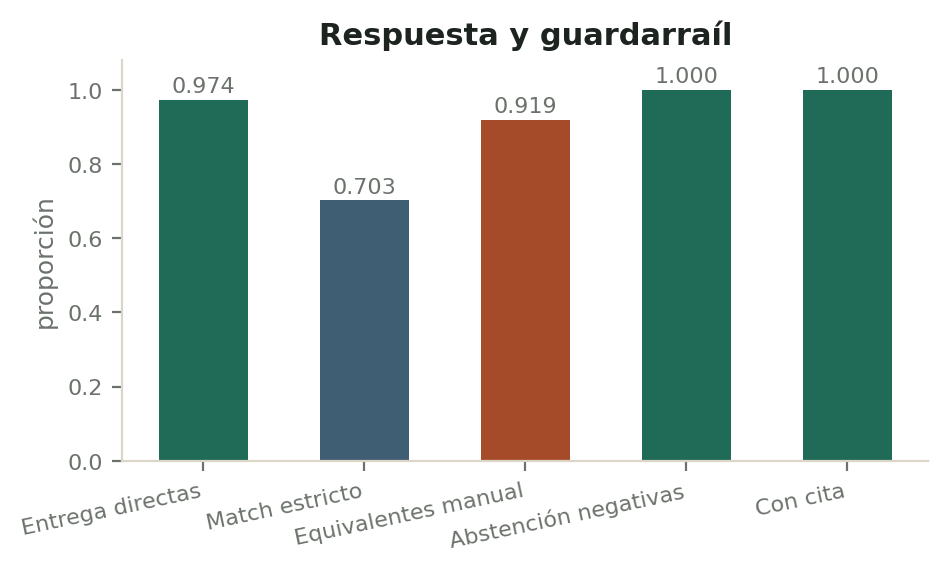
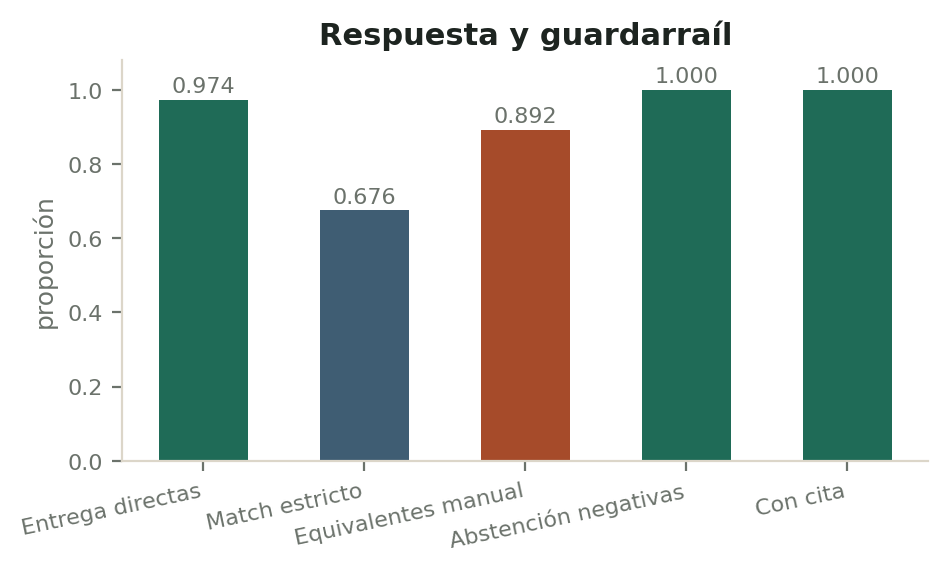
Evaluacion de desempeno en el worker GPU
- run_evaluation usa ingest-rocm en vez de la API para la fase de desempeno
- el worker fija EMBEDDINGS_MODEL y MILVUS_COLLECTION, que el .env tenia viejos
- cifras actualizadas con la corrida del 2026-11-02 y nota de medicion

Changed region(s): [[0.3365, 0.2977, 0.4283, 0.387], [0.4895, 0.1489, 0.6118, 0.2382]]

diff --git a/TALLER RAG/src/scripts/run_evaluation.py b/TALLER RAG/src/scripts/run_evaluation.py
@@ -26,8 +26,8 @@ def run(command: list[str], env: dict | None = None, check: bool = True) -> None
 
 def performance() -> None:
     base = [
-        "docker", "compose", "exec", "-T", "api", "python", "-m",
-        "src.scripts.eval_configuracion_final", "--model", "gemma4:e4b", "--k-answer", "5",
+        "docker", "compose", "--profile", "rocm", "run", "--rm", "-T", "ingest-rocm",
+        "python", "-m", "src.scripts.eval_configuracion_final", "--model", "gemma4:e4b", "--k-answer", "5",
     ]
     run(base + [
         "--raw", "reports/corridas/metricas_final_sin.jsonl",
@@ -40,7 +40,7 @@ def performance() -> None:
         "--raw", "reports/corridas/metricas_final_con.jsonl",
         "--summary", "reports/tablas/metricas_final_con.csv",
         "--by-lang", "reports/tablas/metricas_final_con_por_idioma.csv",
-        "--figures-dir", "/tmp/opencode/fig_eval_con",
+        "--figures-dir", "/tmp/fig_eval_con",
     ])
 
 

diff --git a/TALLER RAG/docs/ARQUITECTURA.md b/TALLER RAG/docs/ARQUITECTURA.md
@@ -124,7 +124,7 @@ El tema sigue Material 3. Los tokens de color, forma, tipografía, elevación y 
 | `eval_ragas.py` | RAGAS con juez y embedding configurables |
 | `run_evaluation.py` | pipeline completo y comparación contra la arquitectura anterior |
 
-El pipeline corre en el contenedor `eval` con Python 3.12, RAGAS 0.4.3, LangChain 0.3 y `BAAI/bge-m3` en CPU. La comparación se guarda en `reports/tablas/evaluacion_comparativa.md`.
+La fase de desempeño corre en el worker GPU (`ingest-rocm`, perfil `rocm`), que tiene ROCm y sus propios límites de memoria; así la API no carga una segunda copia de `bge-m3` ni del reranker. RAGAS corre en el contenedor `eval` con Python 3.12, RAGAS 0.4.3, LangChain 0.3 y `BAAI/bge-m3` en CPU. La comparación se guarda en `reports/tablas/evaluacion_comparativa.md`.
 
 ### 2.9 Despliegue
 
@@ -187,12 +187,12 @@ La corrección de spans de la revisión de Óscar se volvió a medir y `span_hit
 | Directas entregadas | 37 de 38 | 37 de 38 |
 | Abstenciones directas | 1 | 1 |
 | Abstenciones en sin respuesta | 5 de 5 | 5 de 5 |
-| Match estricto | 26 de 37 (70,3%) | 25 de 37 (67,6%) |
+| Match estricto | 25 de 37 (67,6%) | 25 de 37 (67,6%) |
 | F1 por tokens | 0,273 | 0,272 |
 | Respuestas con cita | 100% | 100% |
 | Contexto medio | 1.361 tokens | 1.361 tokens |
-| Latencia media | 6.788 ms | 6.482 ms |
-| Latencia mediana | 6.790 ms | 6.435 ms |
+| Latencia media | 7.938 ms | 6.834 ms |
+| Latencia mediana | 7.086 ms | 6.729 ms |
 
 La revisión manual de las 12 respuestas no estrictas da 8 correctas, 3 parciales y 1 incorrecta: 33 de 37 equivalentes (89,2%) o 36 de 37 con parciales (97,3%). La incorrecta es g-046, donde el retrieval no trae Newcastle.
 
@@ -239,10 +239,10 @@ El juez y el embedding cambiaron, así que la comparación no es completamente e
 | Recuperación | k=5, reranker top-5 | k=15, sin reranker |
 | Entregadas | 37 de 38 | 33 de 38 |
 | Abstenciones directas | 1 | 5 |
-| Match estricto | 26 de 37 (70,3%) | 24 de 33 (72,7%) |
+| Match estricto | 25 de 37 (67,6%) | 24 de 33 (72,7%) |
 | Revisión manual | 33 de 37 (89,2%) | 32 de 37 (86,5%) |
 | Chat con Modo estricto | 14 de 14 | 9 de 12 |
-| Latencia media | 6.788 ms | 17.657 ms |
+| Latencia media | 7.938 ms | 17.657 ms |
 | Contexto medio | 1.361 | 3.975 |
 
 La arquitectura actual entrega más respuestas, acierta más en la revisión manual y es 2,6 veces más rápida. El coste es un contexto más corto y una corrección de respuesta algo menor.

diff --git a/TALLER RAG/README.md b/TALLER RAG/README.md
@@ -206,7 +206,7 @@ docker compose exec api python -m src.scripts.metrics --results reports/corridas
 ```
 
 4. Comparación de limpieza, chunking y codificadores: `docs/EXPERIMENTOS.md`.
-5. Pipeline unificado: `python src/scripts/run_evaluation.py`. Corre desempeño, chat y RAGAS; escribe `reports/tablas/evaluacion_comparativa.md`. El contenedor `eval` tiene RAGAS 0.4.3, LangChain 0.3 y `BAAI/bge-m3` en CPU; se levanta con el perfil `eval`.
+5. Pipeline unificado: `python src/scripts/run_evaluation.py`. Corre desempeño, chat y RAGAS; escribe `reports/tablas/evaluacion_comparativa.md`. La fase de desempeño corre en el worker GPU (`ingest-rocm`, perfil `rocm`) para no cargar una segunda copia de los modelos dentro de la API. El contenedor `eval` tiene RAGAS 0.4.3, LangChain 0.3 y `BAAI/bge-m3` en CPU; se levanta con el perfil `eval`.
 
 Salidas: `reports/tablas/metricas.csv`, `metricas.md` y `resultados_detalle.csv`, con Recall@k, P@1, P@5, Hit@k, MRR, MAP, nDCG, cobertura de span, context precision y recall, duplicados, latencias e intervalos por bootstrap.
 
@@ -220,7 +220,7 @@ Salidas: `reports/tablas/metricas.csv`, `metricas.md` y `resultados_detalle.csv`
 | Chat | 11 de 14 sin Modo estricto; 14 de 14 con Modo estricto |
 | RAGAS actual (`gemma4` + `bge-m3`) | 0,952 / 0,840 / 0,881 / 0,921 / 0,657 |
 | RAGAS anterior (`gemma2` + `qwen3`) | 0,925 / 0,798 / 0,760 / 0,842 / 0,705 |
-| Latencia media | 6.788 ms sin razonamiento; 6.482 ms con razonamiento |
+| Latencia media | 7.938 ms sin razonamiento; 6.834 ms con razonamiento |
 
 La arquitectura completa, las capas y la comparación contra la versión anterior están en [docs/ARQUITECTURA.md](docs/ARQUITECTURA.md). El informe de métricas está en [reports/informe/metricas_nueva_configuracion.md](reports/informe/metricas_nueva_configuracion.md).
 
@@ -239,10 +239,13 @@ Son 84 pruebas: pipeline, API, chat, guardarraíles, preferencias y una prueba d
 |---|---|---|
 | Milvus | 8 | 10 GB |
 | Ollama local | 8 | 12 GB |
-| API | 24 | 12 GB |
+| API | 24 | 16 GB |
 | Frontend | 2 | 1,5 GB |
+| Worker GPU (ingesta y evaluación) | 8 | 16 GB |
 
 No ejecutes ingesta y generación al mismo tiempo. La GPU se comparte entre bge-m3 y Ollama; el cuello real es la VRAM y la CPU.
+
+La evaluación de desempeño corre en el worker GPU y no dentro de la API: así no conviven dos copias de `bge-m3` y del reranker en el mismo contenedor, que era lo que agotaba la memoria del host.
 
 ## 14. Solución de problemas
 

diff --git a/TALLER RAG/reports/informe/metricas_nueva_configuracion.md b/TALLER RAG/reports/informe/metricas_nueva_configuracion.md
@@ -50,13 +50,13 @@ La corrección de spans de Óscar se volvió a medir: `span_hit` se mantiene en 
 | Directas entregadas | 37 de 38 | 37 de 38 |
 | Abstenciones directas | 1 | 1 |
 | Abstenciones en sin respuesta | 5 de 5 | 5 de 5 |
-| Match estricto | 26 de 37 (70,3%) | 25 de 37 (67,6%) |
+| Match estricto | 25 de 37 (67,6%) | 25 de 37 (67,6%) |
 | F1 por tokens | 0,273 | 0,272 |
 | Respuestas con cita | 37 de 37 (100%) | 37 de 37 (100%) |
 | Contexto medio | 1.361 tokens | 1.361 tokens |
-| Latencia total, media | 6.788 ms | 6.482 ms |
-| Latencia total, mediana | 6.790 ms | 6.435 ms |
-| Latencia total, p95 | 9.404 ms | 8.765 ms |
+| Latencia total, media | 7.938 ms | 6.834 ms |
+| Latencia total, mediana | 7.086 ms | 6.729 ms |
+| Latencia total, p95 | 10.127 ms | 9.162 ms |
 
 El razonamiento no cambia los puntajes. Cambia qué pregunta directa se abstiene: sin razonamiento se abstiene g-031 por el generador; con razonamiento se abstiene g-017 por el juez. El conteo y el match estricto son iguales.
 
@@ -127,10 +127,14 @@ La arquitectura actual gana en faithfulness, answer relevancy, context precision
 |---|---|
 | k=15, sin razonamiento | 17.657 ms |
 | k=5, sin reranker | 14.951 ms |
-| k=5 + reranker, sin razonamiento | 6.788 ms |
-| k=5 + reranker, con razonamiento | 6.482 ms |
+| k=5 + reranker, sin razonamiento | 7.938 ms |
+| k=5 + reranker, con razonamiento | 6.834 ms |
 
 La mayor ganancia vino de alinear el contexto del router con el del generador. Antes el router usaba 8K y el generador 116K, y Ollama recargaba el modelo en cada consulta. El MTP aporta 217 tokens por segundo. El reranker en CPU añade unos 1,1 segundos. La primera consulta de una sesión tarda unos 29 segundos por la carga del modelo.
+
+## Nota de medición
+
+Corrida del 2026-11-02 en el worker GPU con el host cargado (2 GB libres): la latencia y el match estricto varían frente a la corrida limpia del 2026-11-01 (6.788 ms y 26/37). La diferencia es ruido de generación y de carga, no de arquitectura.
 
 ## Limitaciones
 

diff --git a/TALLER RAG/reports/tablas/evaluacion_comparativa.md b/TALLER RAG/reports/tablas/evaluacion_comparativa.md
@@ -8,13 +8,13 @@
 | Recuperacion | P@5 | 0.947 | 0.947 |
 | Respuesta | Entregadas | 37/38 | 33/38 |
 | Respuesta | Abstenciones directas | 1 | 5 |
-| Respuesta | Match estricto | 26/37 (70.3%) | 24/33 (72.7%) |
+| Respuesta | Match estricto | 25/37 (67.6%) | 24/33 (72.7%) |
 | Respuesta | F1 tokens | 0.273 | 0.274 |
-| Respuesta | Latencia media | 6788 ms | 17657 ms |
-| Respuesta | Latencia mediana | 6790 ms | 17569 ms |
+| Respuesta | Latencia media | 7938 ms | 17657 ms |
+| Respuesta | Latencia mediana | 7086 ms | 17569 ms |
 | Respuesta | Contexto medio | 1361 | 3975 |
 | Respuesta con razonamiento | Entregadas | 37/38 | 33/38 |
-| Respuesta con razonamiento | Latencia media | 6482 ms | 18840 ms |
+| Respuesta con razonamiento | Latencia media | 6834 ms | 18840 ms |
 | Recuperacion top-5 | nDCG con reranker | 0.865 | 0.809 |
 | Recuperacion top-5 | P@1 con reranker | 0.868 | 0.737 |
 | Recuperacion top-5 | Recall | 0.895 | 0.895 |
